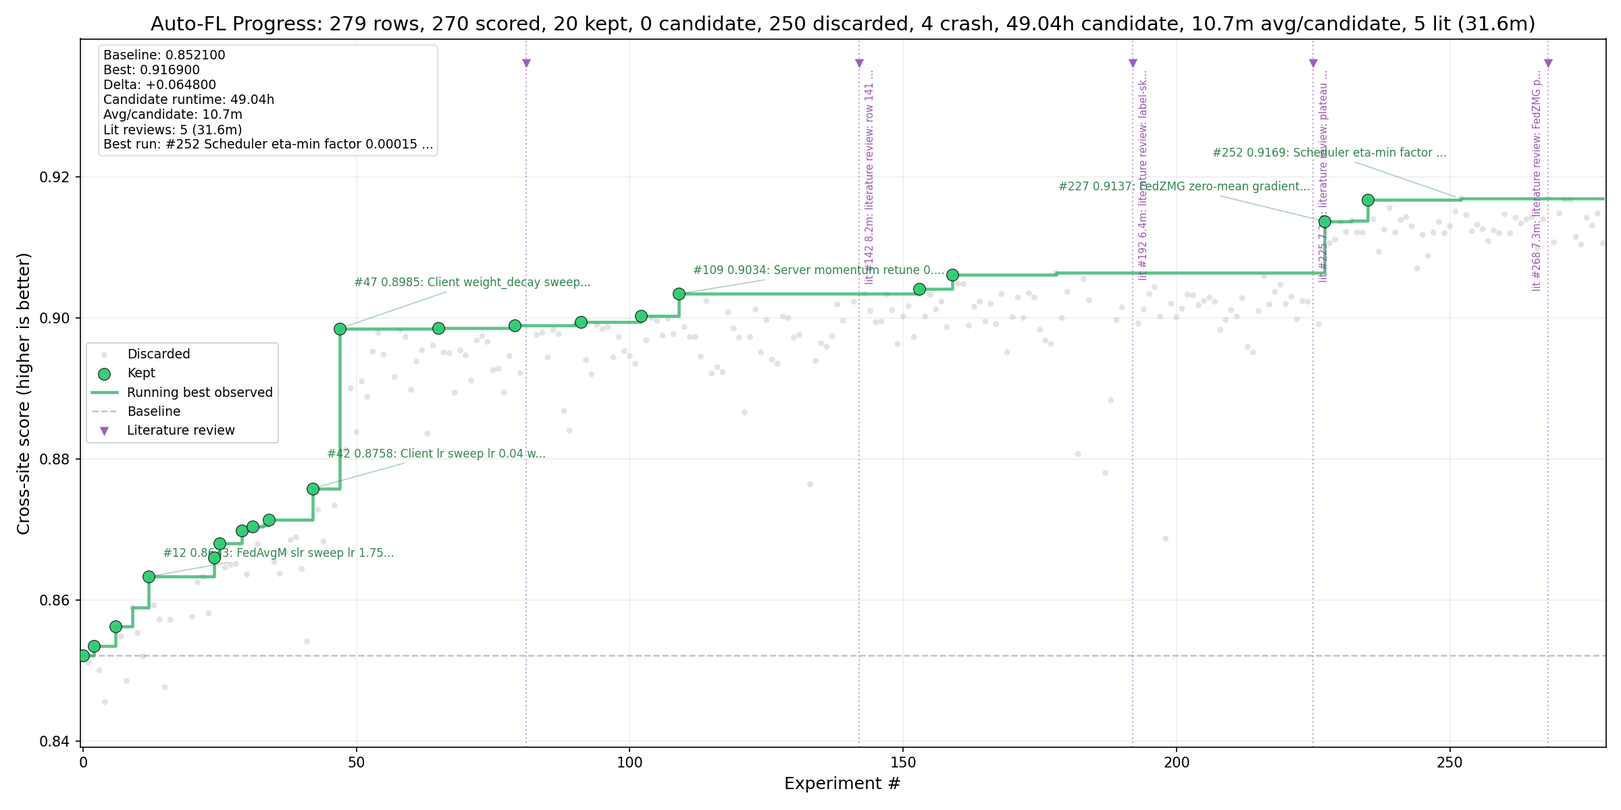
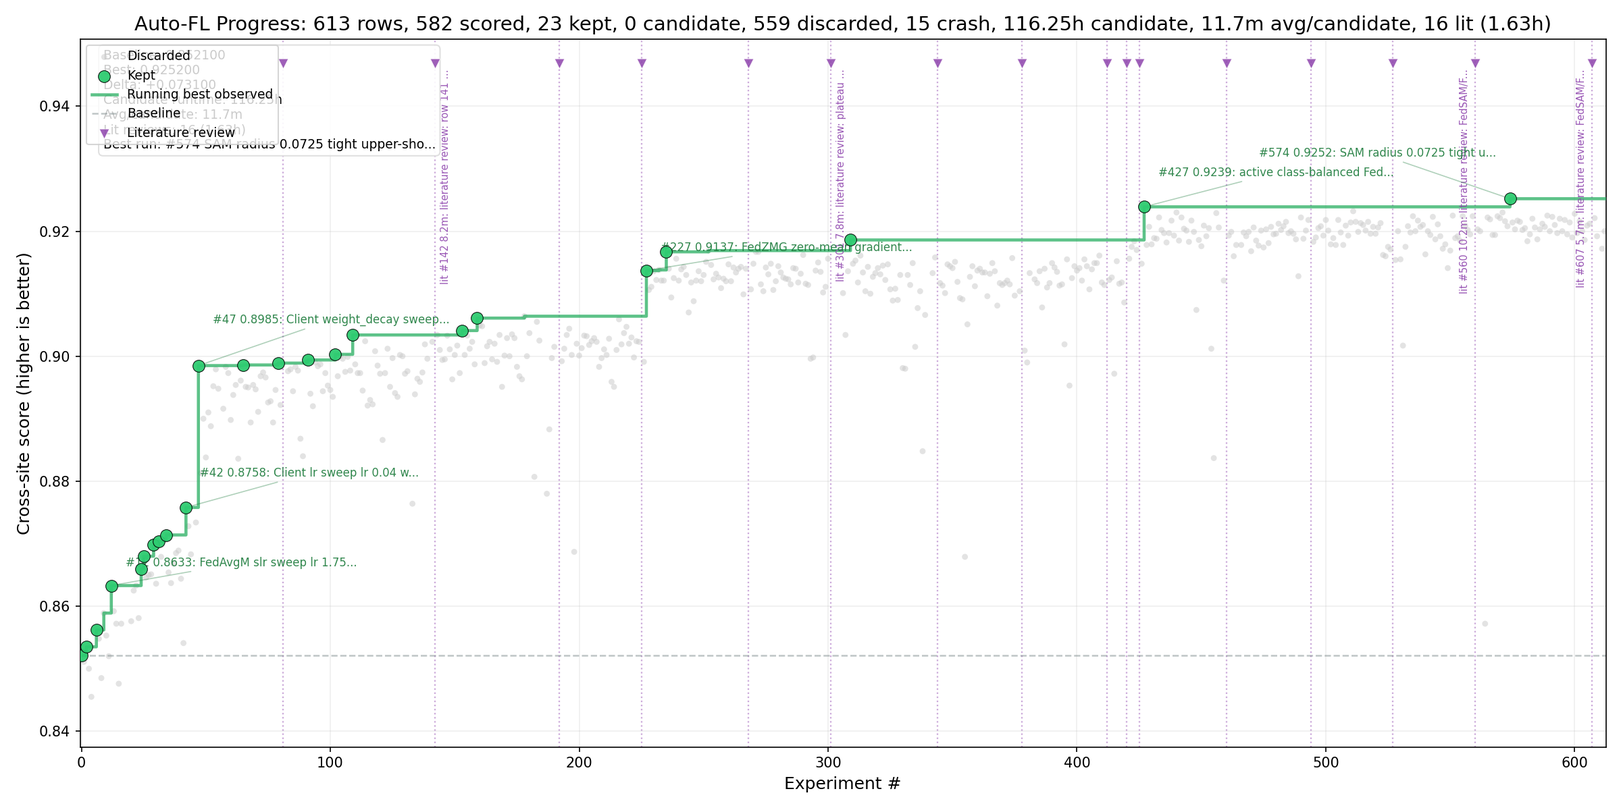
Update autoresearch campaign report

diff --git a/research/auto-fl-research/reports/autoresearch-h100-algocal-20260507-autoresearch-report.md b/research/auto-fl-research/reports/autoresearch-h100-algocal-20260507-autoresearch-report.md
@@ -2,15 +2,15 @@
 
 ## Executive Summary
 
-- **Branch:** `autoresearch/h100-algocal-20260507` at `3e3d8dc9e`
-- **Rows analyzed:** 279 total, 274 scored
-- **Best score:** 0.916900 at experiment `#252`
+- **Branch:** `autoresearch/h100-algocal-20260507` at `77cd9269d`
+- **Rows analyzed:** 613 total, 597 scored
+- **Best score:** 0.925200 at experiment `#574`
 - **Baseline:** 0.852100 at experiment `#0`
-- **Lift:** +0.064800 absolute, 7.6% relative
-- **Runtime cost:** 49.56h aggregate; 10.7m average over 279 timed candidates
+- **Lift:** +0.073100 absolute, 8.6% relative
+- **Runtime cost:** 117.88h aggregate; 11.5m average over 613 timed candidates
 - **Agent model/effort:** Agent model output, optional: GPT-5.5 Agent effort output, optional: xhigh
 - **Agent/tooling cost:** Agent cost telemetry unavailable; no agent cost output was pasted. Experiment runtime cost is reported from results.tsv.
-- **Best status:** `discard`; treat as needing reproduction unless independently repeated or marked `keep`.
+- **Best status:** `keep`; treat as needing reproduction unless independently repeated or marked `keep`.
 
 - **Progress plot:** `progress.png`
 
@@ -22,22 +22,22 @@
 
 | field | value |
 | --- | --- |
-| experiment | #252 |
-| score | 0.916900 |
-| delta vs baseline | +0.064800 |
-| relative lift | 7.6% |
-| status | discard |
-| commit | f6c812245 |
-| runtime | 12.7m |
+| experiment | #574 |
+| score | 0.925200 |
+| delta vs baseline | +0.073100 |
+| relative lift | 8.6% |
+| status | keep |
+| commit | d33b9efe5 |
+| runtime | 14.4m |
 | target | client.py |
-| description | Scheduler eta-min factor 0.00015 tight check around FedZMG floor near-miss [src: Zantalis26 FedZMG arXiv:2602.18384] |
-| artifact | /tmp/nvflare/simulation/fedavgm_lr18_m0475_epochs7_clientlr0045_cm0925_wd5e4_eta000015_mu3e5_zmg |
+| description | SAM radius 0.0725 tight upper-shoulder interpolation under kept FedSAM/FedAvgM stack [src: Qu22 FedSAM] |
+| artifact | /tmp/nvflare/simulation/fedavgm_lr18_m0475_epochs7_clientlr0045_cm0925_wd5e4_eta000015_mu3e5_zmg_cb090_sam00725_w1 |
 | contract mode | Strict DIFF contract |
 
 ### Exact Budget / Args
 
 ```text
---n_clients 8 --num_rounds 20 --aggregation_epochs 7 --local_train_steps 0 --batch_size 64 --eval_batch_size 1024 --alpha 0.5 --seed 0 --model_arch moderate_cnn --max_model_params 5000000 --aggregator fedavgm --server_lr 1.8 --server_momentum 0.475 --lr 0.045 --momentum 0.925 --weight_decay 5e-4 --cosine_lr_eta_min_factor 0.00015 --fedproxloss_mu 3e-5 --zero_mean_gradients --final_eval_clients site-1 --name fedavgm_lr18_m0475_epochs7_clientlr0045_cm0925_wd5e4_eta000015_mu3e5_zmg
+--n_clients 8 --num_rounds 20 --aggregation_epochs 7 --local_train_steps 0 --batch_size 64 --eval_batch_size 1024 --alpha 0.5 --seed 0 --model_arch moderate_cnn --max_model_params 5000000 --aggregator fedavgm --server_lr 1.8 --server_momentum 0.475 --lr 0.045 --momentum 0.925 --weight_decay 5e-4 --cosine_lr_eta_min_factor 0.00015 --sam_rho 0.0725 --fedproxloss_mu 3e-5 --zero_mean_gradients --class_balanced_loss_beta 0.90 --final_eval_clients site-1 --name fedavgm_lr18_m0475_epochs7_clientlr0045_cm0925_wd5e4_eta000015_mu3e5_zmg_cb090_sam00725_w1
 ```
 
 ## Improvement Path
@@ -49,24 +49,24 @@ Major running-best milestones, selected by first/last and largest score jumps:
 | #0 | 0.852100 | baseline | baseline weighted default budget | configuration change |  |
 | #9 | 0.858900 | +0.002700 | FedAvgM server_lr sweep lr 1.5 momentum 0.4 | server momentum, server diff amplification |  |
 | #12 | 0.863300 | +0.004400 | FedAvgM server_lr sweep lr 1.75 momentum 0.4 | server momentum, server diff amplification |  |
-| #24 | 0.866000 | +0.002700 | FedAvgM local compute sweep aggregation_epochs 6 lr 1.75 momentum 0.4 | server momentum, server diff amplification |  |
 | #42 | 0.875800 | +0.004400 | Client lr sweep lr 0.04 with FedAvgM 1.80 momentum 0.40 aggregation_e... | server momentum, server diff amplification |  |
 | #47 | 0.898500 | +0.022700 | Client weight_decay sweep 5e-4 lr 0.04 with FedAvgM 1.80 momentum 0.4... | server momentum, server diff amplification, weight decay |  |
 | #109 | 0.903400 | +0.003100 | Server momentum retune 0.45 with eta_min_factor 0.005 current best stack | server momentum, server diff amplification, weight decay |  |
 | #227 | 0.913700 | +0.007300 | FedZMG zero-mean gradients on active FedAvgM FedProx stack [src: Zant... | server momentum, server diff amplification, FedProx/client drift regularization, weight decay | Zantalis26 FedZMG arXiv:2602.18384 |
 | #235 | 0.916700 | +0.002900 | Client lr 0.045 around FedZMG new best stack [src: Zantalis26 FedZMG ... | server momentum, server diff amplification, FedProx/client drift regularization, weight decay | Zantalis26 FedZMG arXiv:2602.18384 |
-| #252 | 0.916900 | +0.000200 | Scheduler eta-min factor 0.00015 tight check around FedZMG floor near... | server momentum, server diff amplification, FedProx/client drift regularization, weight decay | Zantalis26 FedZMG arXiv:2602.18384 |
+| #427 | 0.923900 | +0.005300 | active class-balanced FedZMG stack plus FedSAM rho 0.05 [src: Qu22 Fe... | server momentum, server diff amplification, FedProx/client drift regularization, weight decay | Qu22 FedSAM ICML; Foret21 SAM ICLR |
+| #574 | 0.925200 | +0.001300 | SAM radius 0.0725 tight upper-shoulder interpolation under kept FedSA... | server momentum, server diff amplification, FedProx/client drift regularization, weight decay | Qu22 FedSAM |
 
 ## Runtime and Reliability
 
 | metric | value |
 | --- | --- |
-| total aggregate runtime | 49.56h |
-| average runtime per timed candidate | 10.7m |
-| timed candidates | 279 |
+| total aggregate runtime | 117.88h |
+| average runtime per timed candidate | 11.5m |
+| timed candidates | 613 |
 | candidate rows | 0 |
-| kept rows | 20 |
-| crash rows | 4 |
+| kept rows | 23 |
+| crash rows | 15 |
 
 The runtime total is aggregate candidate runtime from `runtime_seconds`, not wall-clock elapsed campaign time.
 
@@ -96,28 +96,69 @@ Agent cost telemetry unavailable; no agent cost output was pasted. Experiment ru
 | 1 | FedAvgM narrow server_lr sweep lr 1.8 momentum 0.4 |
 | 1 | FedAvgM narrow server_lr sweep lr 1.9 momentum 0.4 |
 | 1 | FedAvgM narrow server_lr sweep lr 1.6 momentum 0.4 |
+| 1 | Class-balanced effective-number beta 0.99 on FedZMG high-floo... |
+| 1 | Focal loss gamma 1.0 on FedZMG high-floor stack [src: Sarkar2... |
+| 1 | Focal loss gamma 2.0 on FedZMG high-floor stack [src: Sarkar2... |
+| 1 | Class-balanced focal beta 0.99 gamma 1.0 on FedZMG high-floor... |
 
 ## Literature-Derived Ideas
 
 | source ref | rows | best score | best description | mapped mechanism | outcome |
 | --- | --- | --- | --- | --- | --- |
+| Acar21 FedDyn | 1 | 0.000000 | FedDyn-lite client dynamic regularizer alpha 0.01 under kept FedSAM s... | server momentum, server diff amplification, FedProx/client drift regularization, weight decay | not confirmed |
+| Cao19 LDAM NeurIPS; Cui19 CBLoss CVPR | 2 | 0.911700 | LDAM max_margin 0.25 with class-balanced beta 0.90 FedZMG stack [src:... | server momentum, server diff amplification, FedProx/client drift regularization, weight decay | helped |
+| Cui19 CBLoss | 12 | 0.923200 | Class-balanced beta 0.86875 lower-side bracket under kept FedSAM/FedA... | server momentum, server diff amplification, FedProx/client drift regularization, weight decay | helped |
+| Cui19 CBLoss CVPR; Sarkar20 Fed-Focal arXiv:2011.06283 | 1 | 0.000000 | Class-balanced focal beta 0.99 gamma 1.0 on FedZMG high-floor stack [... | server momentum, server diff amplification, FedProx/client drift regularization, weight decay | not confirmed |
+| Cui19 CBLoss CVPR; Wang21 RatioLoss AAAI | 92 | 0.918600 | Class-balanced effective-number beta 0.90 stability bracket on FedZMG... | server momentum, server diff amplification, FedProx/client drift regularization, weight decay | helped |
+| Cui19 CBLoss; Qu22 FedSAM | 1 | 0.922200 | Near-miss pair class-balanced beta 0.86875 with SAM rho 0.075 under k... | server momentum, server diff amplification, FedProx/client drift regularization, weight decay | helped |
+| Cui19 CBLoss; Qu22 FedSAM ICML | 9 | 0.923000 | Class-balanced beta 0.875 under kept FedSAM rho 0.05 stack [src: Cui1... | server momentum, server diff amplification, FedProx/client drift regularization, weight decay | helped |
+| Cui19 CVPR | 1 | 0.918800 | Class-balanced beta 0.95 upper shoulder under kept FedSAM stack [src:... | server momentum, server diff amplification, FedProx/client drift regularization, weight decay | helped |
+| Cui19 class-balanced loss | 2 | 0.921700 | Class-balanced beta 0.89375 lower neighbor under new kept SAM 0.0725 ... | server momentum, server diff amplification, FedProx/client drift regularization, weight decay | helped |
+| DeVries17 Cutout arXiv:1708.04552 | 3 | 0.918400 | active class-balanced FedZMG stack plus Cutout size 10 [src: DeVries1... | server momentum, server diff amplification, FedProx/client drift regularization, weight decay | helped |
+| DeVries17 Cutout arXiv:1708.04552; Zhong17 RandomErasing arXiv:1708.04896 | 1 | 0.915600 | Local Cutout size 8 under class-balanced FedZMG stack [src: DeVries17... | server momentum, server diff amplification, FedProx/client drift regularization, weight decay | helped |
+| Fan24 FedLESAM ICML | 1 | 0.915400 | FedLESAM trajectory perturbation replacing local SAM direction [src: ... | server momentum, server diff amplification, FedProx/client drift regularization, weight decay | helped |
+| Izmailov18 SWA arXiv:1803.05407 | 2 | 0.919900 | Local SWA start_frac 0.75 under kept FedSAM rho 0.05 stack [src: Izma... | server momentum, server diff amplification, FedProx/client drift regularization, weight decay | helped |
+| Jhunjhunwala23 FedExP | 2 | 0.917200 | FedExP adaptive server step cap 1.8 on active FedSAM stack after cap3... | server diff amplification, FedProx/client drift regularization, weight decay | helped |
 | Karimireddy20 SCAFFOLD arXiv:1910.06378 | 2 | 0.886800 | Tuned SCAFFOLD protocol mode lr 0.04 momentum 0.925 wd 5e-4 [src: Kar... | SCAFFOLD control variates, weight decay | helped |
+| Karimireddy20 SCAFFOLD arXiv:1910.06378; Cui19 CBLoss CVPR | 1 | 0.906600 | SCAFFOLD metadata mode with class-balanced beta 0.90 FedZMG client st... | FedProx/client drift regularization, SCAFFOLD control variates, weight decay | helped |
 | Karimireddy20 SCAFFOLD; Li20 FedProx | 1 | 0.888300 | SCAFFOLD metadata mode with active FedProx lower-floor client stack [... | FedProx/client drift regularization, SCAFFOLD control variates, weight decay | helped |
-| Li20 FedProx | 62 | 0.906400 | Exact local_train_steps 768 around FedProx lower-floor server_momentu... | server momentum, server diff amplification, FedProx/client drift regularization, weight decay | helped |
+| Karimireddy20 SCAFFOLD; Qu22 FedSAM ICML | 1 | 0.912100 | SCAFFOLD mode under kept FedSAM rho 0.05 client stack [src: Karimired... | server momentum, server diff amplification, FedProx/client drift regularization, SCAFFOLD control variates, weight decay | helped |
+| Kwon21 ASAM ICML | 1 | 0.915500 | ASAM adaptive perturbation scaling rho 0.10 under kept FedAvgM stack ... | server momentum, server diff amplification, FedProx/client drift regularization, weight decay | helped |
+| Lee22 FedNTD | 1 | 0.920000 | FedNTD masked global distillation beta 0.02 T2 under kept FedSAM stac... | server momentum, server diff amplification, FedProx/client drift regularization, weight decay | helped |
+| Lee22 FedNTD; Song24 FedDistill; Yan23 FedCSD | 1 | 0.920300 | FedNTD masked global distillation beta 0.05 T2 under kept FedSAM stac... | server momentum, server diff amplification, FedProx/client drift regularization, weight decay | helped |
+| Li20 FedProx | 64 | 0.920500 | FedProx mu 2.75e-5 lower neighbor under new kept SAM 0.0725 FedSAM/Fe... | server momentum, server diff amplification, FedProx/client drift regularization, weight decay | helped |
+| Li20 FedProx MLSys | 1 | 0.920100 | FedProx mu 6e-5 upper shoulder under kept FedSAM stack [src: Li20 Fed... | server momentum, server diff amplification, FedProx/client drift regularization, weight decay | helped |
 | Li20 FedProx arXiv:1812.06127 | 1 | 0.897600 | FedProx mu 1e-5 on current best FedAvgM stack [src: Li20 FedProx arXi... | server momentum, server diff amplification, FedProx/client drift regularization, weight decay | helped |
-| Li20 FedProx arXiv:1812.06127; Zantalis26 FedZMG arXiv:2602.18384 | 6 | 0.914700 | FedProx mu 4e-5 tight bracket around kept FedZMG stack [src: Li20 Fed... | server momentum, server diff amplification, FedProx/client drift regularization, weight decay | helped |
+| Li20 FedProx arXiv:1812.06127; Cui19 CBLoss CVPR | 2 | 0.914100 | FedProx mu 3.5e-5 around class-balanced beta 0.90 FedZMG stack [src: ... | server momentum, server diff amplification, FedProx/client drift regularization, weight decay | helped |
+| Li20 FedProx arXiv:1812.06127; Zantalis26 FedZMG arXiv:2602.18384 | 8 | 0.915600 | FedProx mu 3.25e-5 fine bracket under FedZMG scheduler high-water flo... | server momentum, server diff amplification, FedProx/client drift regularization, weight decay | helped |
+| Li20 FedProx; Cui19 CBLoss CVPR; Wang21 RatioLoss AAAI | 4 | 0.914100 | FedProx mu 5e-5 continuation under class-balanced beta 0.90 FedZMG st... | server momentum, server diff amplification, FedProx/client drift regularization, weight decay | helped |
+| Li20 FedProx; Qu22 FedSAM ICML | 7 | 0.921700 | FedProx mu 1e-5 under kept FedSAM rho 0.05 stack [src: Li20 FedProx; ... | server momentum, server diff amplification, FedProx/client drift regularization, weight decay | helped |
 | Li21 FedRS KDD:10.1145/3447548.3467254 | 1 | 0.901200 | FedRS restricted softmax alpha 0.5 on active FedAvgM FedProx stack [s... | server momentum, server diff amplification, FedProx/client drift regularization, weight decay | helped |
+| Li25 FedWMSAM | 1 | 0.920000 | Late-cosine SAM rho schedule max 0.10 under kept FedAvgM stack [src: ... | server momentum, server diff amplification, FedProx/client drift regularization, weight decay | helped |
+| Muller19 LabelSmoothing arXiv:1906.02629; Szegedy16 Inception arXiv:1512.00567 | 1 | 0.912600 | Label smoothing 0.05 under class-balanced FedZMG stack [src: Muller19... | server momentum, server diff amplification, FedProx/client drift regularization, label smoothing, weight decay | helped |
 | Muller19 label smoothing NeurIPS | 2 | 0.904400 | Label smoothing 0.05 on active FedAvgM FedProx stack [src: Muller19 l... | server momentum, server diff amplification, FedProx/client drift regularization, label smoothing, weight decay | helped |
+| Qu22 FedSAM | 6 | 0.925200 | SAM radius 0.0725 tight upper-shoulder interpolation under kept FedSA... | server momentum, server diff amplification, FedProx/client drift regularization, weight decay | helped |
+| Qu22 FedSAM ICML | 54 | 0.922900 | SAM radius 0.075 upper-bound check under kept stack [src: Qu22 FedSAM... | server momentum, server diff amplification, FedProx/client drift regularization, weight decay | helped |
+| Qu22 FedSAM ICML; Foret21 SAM ICLR | 13 | 0.923900 | active class-balanced FedZMG stack plus FedSAM rho 0.05 [src: Qu22 Fe... | server momentum, server diff amplification, FedProx/client drift regularization, weight decay | helped |
+| Qu22 FedSAM ICML; Li20 FedProx | 1 | 0.920900 | Higher SAM radius with lower FedProx mu near-miss pairing under kept ... | server momentum, server diff amplification, FedProx/client drift regularization, weight decay | helped |
 | Qu22 FedSAM arXiv:2206.02618 | 1 | 0.910700 | Reduced-epoch FedSAM rho 0.03 on kept FedZMG stack [src: Qu22 FedSAM ... | server momentum, server diff amplification, FedProx/client drift regularization, weight decay | helped |
-| Reddi21 FedOpt | 2 | 0.750900 | Conservative FedAdam server_lr 0.1 tau 0.1 with active FedProx client... | server diff amplification, FedProx/client drift regularization, weight decay | not confirmed |
+| Rahil25 FedSCAM arXiv:2601.00853; Qu22 FedSAM ICML | 1 | 0.918300 | Aligned FedAvgM update-alignment aggregation under kept FedSAM stack ... | server momentum, server diff amplification, FedProx/client drift regularization, weight decay | helped |
+| Reddi21 FedOpt | 16 | 0.922400 | Server momentum 0.46875 tight lower interpolation under kept FedSAM/F... | server momentum, server diff amplification, FedProx/client drift regularization, weight decay | helped |
 | Reddi21 FedOpt arXiv:2003.00295 | 1 | 0.807800 | Conservative FedAdam server optimizer on current client stack [src: R... | server diff amplification, weight decay | not confirmed |
-| Reddi21 FedOpt; Li20 FedProx | 2 | 0.904700 | Server momentum 0.4825 with eta_min_factor 0.000125 near-miss FedAvgM... | server momentum, server diff amplification, FedProx/client drift regularization, weight decay | helped |
+| Reddi21 FedOpt; Cui19 CBLoss | 2 | 0.920700 | Server momentum 0.46875 on lower-beta near-miss FedSAM stack [src: Re... | server momentum, server diff amplification, FedProx/client drift regularization, weight decay | helped |
+| Reddi21 FedOpt; Li20 FedProx | 4 | 0.922400 | Lower server momentum with lower FedProx mu near-miss pairing under k... | server momentum, server diff amplification, FedProx/client drift regularization, weight decay | helped |
+| Reddi21 FedOpt; Qu22 FedSAM ICML | 4 | 0.922500 | Lower server momentum with higher SAM radius near-miss pairing under ... | server momentum, server diff amplification, FedProx/client drift regularization, weight decay | helped |
+| Sarkar20 Fed-Focal arXiv:2011.06283; Lin17 Focal arXiv:1708.02002 | 4 | 0.910100 | Focal loss gamma 1.0 retry at width 2 on FedZMG high-floor stack [src... | server momentum, server diff amplification, FedProx/client drift regularization, weight decay | helped |
+| Sun23 FedSMOO arXiv:2305.11584; Li20 FedProx MLSys; Qu22 FedSAM ICML | 1 | 0.919000 | Dynamic cosine-decay FedProx mu 1e-4 under kept FedSAM stack [src: Su... | server momentum, server diff amplification, FedProx/client drift regularization, weight decay | helped |
+| Wang20 FedNova NeurIPS | 2 | 0.900900 | FedNova normalized aggregation on class-balanced FedZMG stack [src: W... | server momentum, server diff amplification, FedProx/client drift regularization, weight decay | helped |
 | Wang20 FedNova arXiv:2007.07481; Reddi21 FedOpt arXiv:2003.00295 | 1 | 0.899100 | FedNova-style step-normalized FedAvgM on active FedProx stack [src: W... | server momentum, server diff amplification, FedProx/client drift regularization, weight decay | helped |
 | Yashwanth24 ASD arXiv:2305.19600 | 1 | 0.901000 | Global self-distillation alpha 0.05 T2 with current FedAvgM best stac... | server momentum, server diff amplification, weight decay | helped |
 | Yoon21 FedMix arXiv:2107.00233; Sang24 mixup-noise arXiv:2409.13235; Zhang17 mixup arXiv:1710.09412 | 1 | 0.914800 | Local mixup alpha 0.2 on kept FedZMG stack [src: Yoon21 FedMix arXiv:... | server momentum, server diff amplification, FedProx/client drift regularization, weight decay | helped |
-| Zantalis26 FedZMG arXiv:2602.18384 | 41 | 0.916900 | Scheduler eta-min factor 0.00015 tight check around FedZMG floor near... | server momentum, server diff amplification, FedProx/client drift regularization, weight decay | helped |
-| Zhang21 clipping arXiv:2106.13673 | 3 | 0.916700 | Update clipping norm 45 on kept FedZMG stack [src: Zhang21 clipping a... | server momentum, server diff amplification, FedProx/client drift regularization, gradient clipping, weight decay | helped |
+| Zantalis26 FedZMG arXiv:2602.18384 | 61 | 0.916900 | Scheduler eta-min factor 0.00015 tight check around FedZMG floor near... | server momentum, server diff amplification, FedProx/client drift regularization, weight decay | helped |
+| Zhang18 mixup arXiv:1710.09412; Yoon21 FedMix arXiv:2107.00233 | 1 | 0.912200 | Local mixup alpha 0.2 under class-balanced FedZMG stack [src: Zhang18... | server momentum, server diff amplification, FedProx/client drift regularization, weight decay | helped |
+| Zhang21 clipping arXiv:2106.13673 | 5 | 0.916700 | Update clipping norm 45 on kept FedZMG stack [src: Zhang21 clipping a... | server momentum, server diff amplification, FedProx/client drift regularization, gradient clipping, weight decay | helped |
 | Zhang22 FedLC arXiv:2209.00189 | 1 | 0.899200 | FedLC logit calibration tau 0.5 on active FedAvgM FedProx stack [src:... | server momentum, server diff amplification, FedProx/client drift regularization, weight decay | helped |
+| Zhao22 GNP; Sun23 FedSpeed | 2 | 0.922100 | Gradient-norm SAM blend 0.5 on active FedSAM/FedAvgM high-water stack... | server momentum, server diff amplification, FedProx/client drift regularization, weight decay | helped |
 
 Source refs are extracted from `[src: ...]` markers in `results.tsv` descriptions. Check `templates/mutation_report.md` or the campaign notes for full citations and URLs.
 
@@ -129,10 +170,10 @@ Source refs are extracted from `[src: ...]` markers in `results.tsv` description
 | #17 | 0.000000 | FedAvgM narrow server_lr sweep lr 1.8 momentum 0.4 | server momentum, server diff amplification |
 | #18 | 0.000000 | FedAvgM narrow server_lr sweep lr 1.9 momentum 0.4 | server momentum, server diff amplification |
 | #19 | 0.000000 | FedAvgM narrow server_lr sweep lr 1.6 momentum 0.4 | server momentum, server diff amplification |
-| #185 | 0.710600 | Conservative FedAdam server_lr 0.05 tau 0.1 with active FedProx clien... | server diff amplification, FedProx/client drift regularization, weight decay |
-| #140 | 0.742500 | Scheduler off with server momentum 0.45 current best stack | server momentum, server diff amplification, weight decay |
-| #186 | 0.750900 | Conservative FedAdam server_lr 0.1 tau 0.1 with active FedProx client... | server diff amplification, FedProx/client drift regularization, weight decay |
-| #132 | 0.764500 | Aggregator axis robust median with current best client schedule | weight decay |
+| #302 | 0.000000 | Class-balanced effective-number beta 0.99 on FedZMG high-floor stack ... | server momentum, server diff amplification, FedProx/client drift regularization, weight decay |
+| #303 | 0.000000 | Focal loss gamma 1.0 on FedZMG high-floor stack [src: Sarkar20 Fed-Fo... | server momentum, server diff amplification, FedProx/client drift regularization, weight decay |
+| #304 | 0.000000 | Focal loss gamma 2.0 on FedZMG high-floor stack [src: Sarkar20 Fed-Fo... | server momentum, server diff amplification, FedProx/client drift regularization, weight decay |
+| #305 | 0.000000 | Class-balanced focal beta 0.99 gamma 1.0 on FedZMG high-floor stack [... | server momentum, server diff amplification, FedProx/client drift regularization, weight decay |
 
 ## Recommendation
 
@@ -147,23 +188,23 @@ Source refs are extracted from `[src: ...]` markers in `results.tsv` description
 
 | status | rows |
 | --- | --- |
-| crash | 4 |
-| discard | 250 |
-| keep | 20 |
-| literature | 5 |
+| crash | 15 |
+| discard | 559 |
+| keep | 23 |
+| literature | 16 |
 
 ### Top Scored Rows
 
 | rank | experiment | score | runtime | status | description |
 | --- | --- | --- | --- | --- | --- |
-| 1 | #252 | 0.916900 | 12.7m | discard | Scheduler eta-min factor 0.00015 tight check around FedZMG floor near-miss [src: Zant... |
-| 2 | #235 | 0.916700 | 12.5m | keep | Client lr 0.045 around FedZMG new best stack [src: Zantalis26 FedZMG arXiv:2602.18384] |
-| 3 | #271 | 0.916700 | 12.7m | discard | Update clipping norm 45 on kept FedZMG stack [src: Zhang21 clipping arXiv:2106.13673] |
-| 4 | #272 | 0.916700 | 12.7m | discard | Update clipping norm 60 on kept FedZMG stack [src: Zhang21 clipping arXiv:2106.13673] |
-| 5 | #239 | 0.915600 | 12.8m | discard | Client lr 0.04625 tight bracket around FedZMG client-lr best [src: Zantalis26 FedZMG ... |
-| 6 | #251 | 0.915100 | 12.8m | discard | Scheduler eta-min factor 0.0002 around FedZMG client-lr 0.045 stack [src: Zantalis26 ... |
-| 7 | #270 | 0.914800 | 13.2m | discard | Local mixup alpha 0.2 on kept FedZMG stack [src: Yoon21 FedMix arXiv:2107.00233; Sang... |
-| 8 | #277 | 0.914800 | 12.7m | discard | Client lr 0.04375 under FedZMG scheduler high-water floor [src: Zantalis26 FedZMG arX... |
-| 9 | #260 | 0.914700 | 12.7m | discard | FedProx mu 4e-5 tight bracket around kept FedZMG stack [src: Li20 FedProx arXiv:1812.... |
-| 10 | #253 | 0.914600 | 12.7m | discard | Scheduler eta-min factor 0.00025 tight check around FedZMG floor near-miss [src: Zant... |
+| 1 | #574 | 0.925200 | 14.4m | keep | SAM radius 0.0725 tight upper-shoulder interpolation under kept FedSAM/FedAvgM stack ... |
+| 2 | #427 | 0.923900 | 14.3m | keep | active class-balanced FedZMG stack plus FedSAM rho 0.05 [src: Qu22 FedSAM ICML; Foret... |
+| 3 | #511 | 0.923200 | 14.4m | discard | Class-balanced beta 0.86875 lower-side bracket under kept FedSAM/FedAvgM stack [src: ... |
+| 4 | #440 | 0.923000 | 14.3m | discard | Class-balanced beta 0.875 under kept FedSAM rho 0.05 stack [src: Cui19 CBLoss; Qu22 F... |
+| 5 | #571 | 0.923000 | 14.3m | discard | Class-balanced beta 0.89375 tight upper interpolation under kept FedSAM/FedAvgM stack... |
+| 6 | #456 | 0.922900 | 14.4m | discard | SAM radius 0.075 upper-bound check under kept stack [src: Qu22 FedSAM ICML] |
+| 7 | #600 | 0.922800 | 14.3m | discard | Combined lower weight decay 4.75e-4 and lower server lr 1.796875 under new kept SAM 0... |
+| 8 | #551 | 0.922500 | 14.4m | discard | Lower server momentum with higher SAM radius near-miss pairing under kept FedSAM stac... |
+| 9 | #589 | 0.922500 | 14.3m | discard | Cosine eta_min_factor 0.0001 lower neighbor under new kept SAM 0.0725 FedSAM/FedAvgM ... |
+| 10 | #535 | 0.922400 | 14.3m | discard | Server momentum 0.46875 tight lower interpolation under kept FedSAM/FedAvgM stack [sr... |
 
